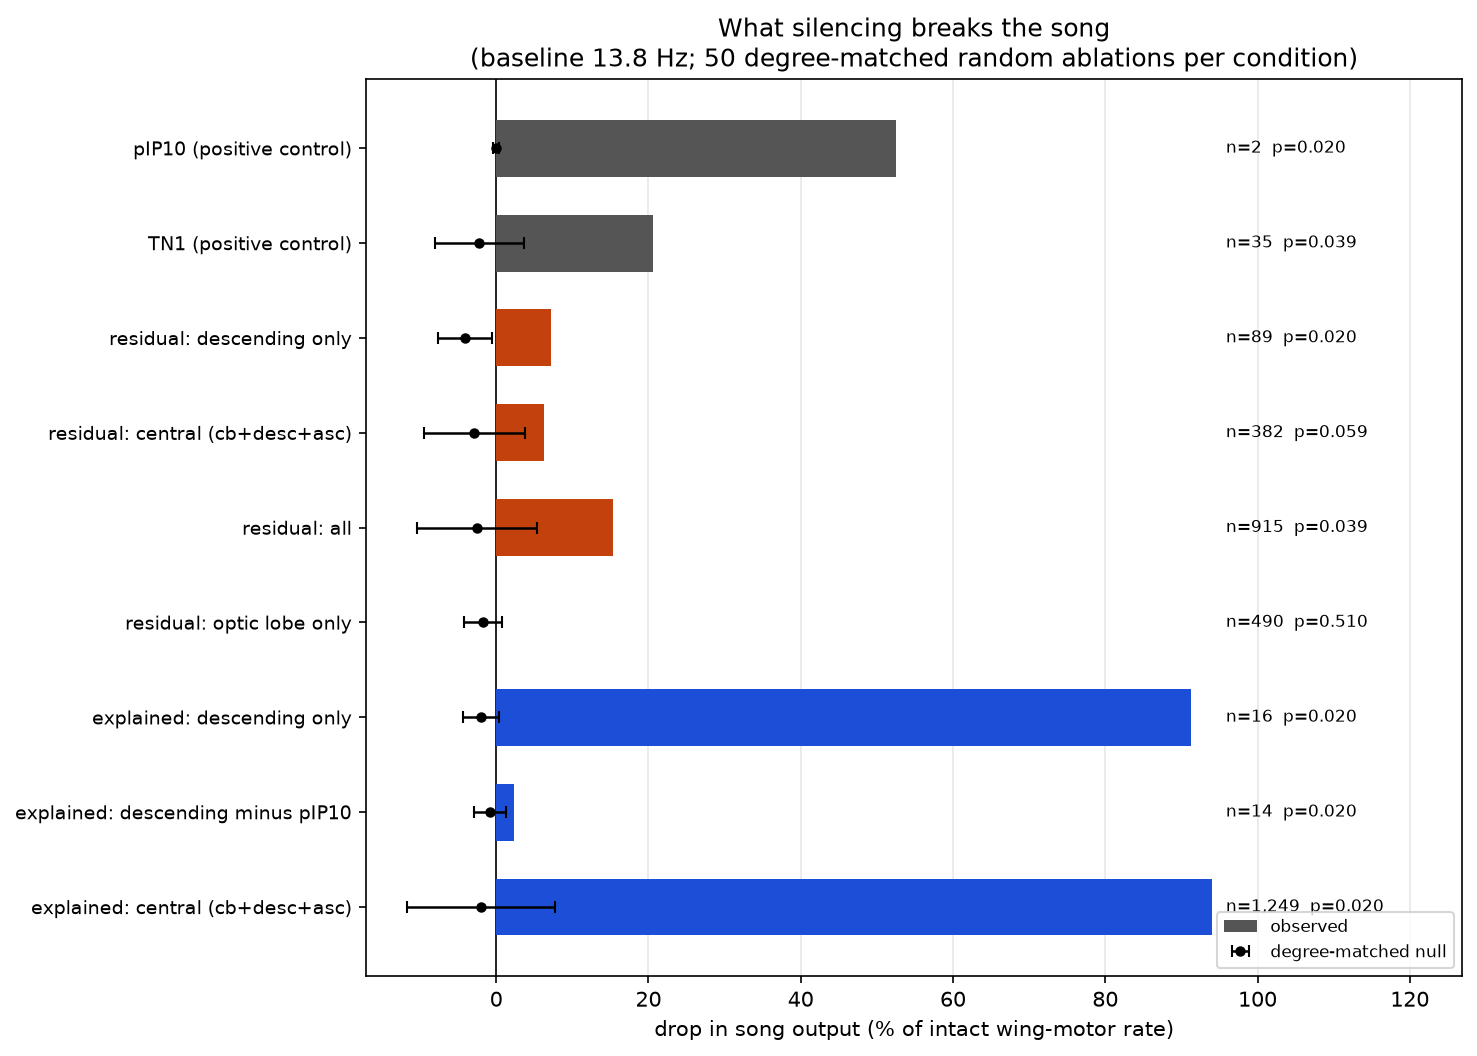
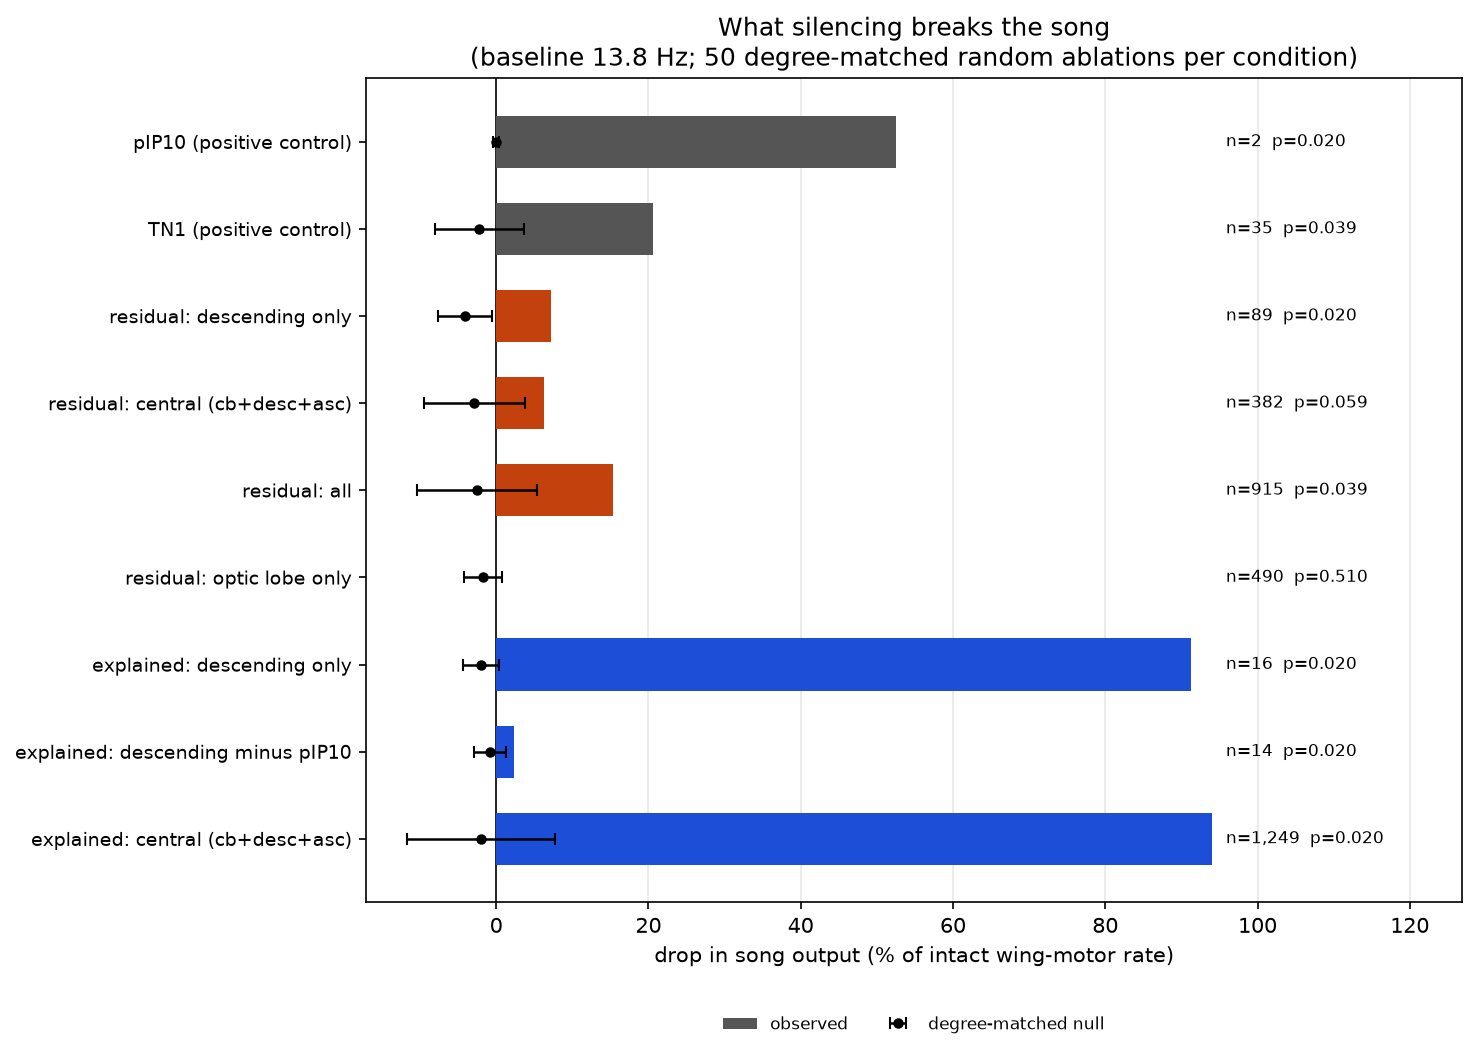
Residual breakdown, and a negative result on the motivating hypothesis
Breakdown by superclass shows the aggregate numbers were hiding a
cancellation. Only two classes move the song, and they are the two that
connect brain to nerve cord:

  ascending_neuron   84   +13.6%  (+0.162%/neuron)  p=0.0392
  descending_neuron  89    +7.2%  (+0.081%/neuron)  p=0.0392
  ol_intrinsic      490     0.0%                    p=0.3529
  cb_intrinsic      209   -23.5%                    p=1.0000

Silencing the residual cb_intrinsic neurons makes the song 23.5% LOUDER
-- they are net inhibitory, so removing them disinhibits the pathway.
That is why "residual: central" came out at only 6.2%: it bundles the
excitatory and inhibitory halves and they partly cancel. Reported as an
aggregate alone it would have read as a weak effect rather than two
opposing real ones.

The p=1.0000 there is called out in the doc as an artefact of the test's
direction -- it is one-sided for decreases, so a negative drop scores 1.0
by construction. The increase is left untested rather than claimed.

The brain-only hypothesis FAILED. Pitched as the reason MaleCNS was
needed: brain-only models delete 1,846 ascending neurons carrying VNC ->
brain feedback. Measured, pIP10 fires 6.2% faster without the nerve cord
and silencing only the ascending neurons reproduces most of it -- which
looked like a finding until the control ran:

  ascending silenced   pIP10  +10.0 Hz
  degree-matched null        -14.7 +/- 35.4 Hz
  two-sided p = 0.4118
[…]

diff --git a/scripts/run_brain_only.py b/scripts/run_brain_only.py
@@ -35,11 +35,13 @@ from fruresidual.features.fru_dsx_join import load_male_cns_annotations
 
 sys.path.insert(0, str(Path(__file__).resolve().parents[1] / "src"))
 
-from courtship.circuit import resolve_groups, to_indices  # noqa: E402
-from courtship.lif import LIFParams, group_rate, simulate  # noqa: E402
+from courtship.ablation import degree_matched_sample, out_synapses
+from courtship.circuit import resolve_groups, to_indices
+from courtship.lif import LIFParams, group_rate, simulate
 
 P = Path("C:/CourtshipData/processed")
 DURATION_MS = 200.0
+N_NULL = 50
 # Classes that live in the ventral nerve cord. Descending neurons are kept:
 # their somas are in the brain and FlyWire contains them (truncated at the
 # neck), which is exactly the boundary a brain-only reconstruction draws.
@@ -96,15 +98,40 @@ def main() -> None:
     print("\n=== brain activity, with and without the nerve cord ===")
     print(df.to_string(index=False))
 
+    # Without a null, "we removed 1,846 neurons and pIP10 changed" is not a
+    # claim about ascending FEEDBACK -- it could be any 1,846 neurons. Compare
+    # against degree-matched random sets drawn from the rest of the network.
+    print(f"\nnull: {N_NULL} degree-matched random sets of {len(ascending):,} neurons...")
+    out_syn = out_synapses(adj)
+    rng = np.random.default_rng(0)
+    null_pip10 = []
+    for _ in range(N_NULL):
+        ctrl = degree_matched_sample(ascending, out_syn, rng)
+        r = simulate(adj, gi["pC1"], duration_ms=DURATION_MS, params=params,
+                     silenced_idx=ctrl, record_every=0)
+        null_pip10.append(group_rate(r["rates_hz"], gi["pIP10"]))
+    null_pip10 = np.array(null_pip10)
+
+    obs_delta = row_asc["pIP10_hz"] - row_full["pIP10_hz"]
+    null_delta = null_pip10 - row_full["pIP10_hz"]
+    # Two-sided: the question is whether pIP10 CHANGES, not which way.
+    p_asc = (int((np.abs(null_delta) >= abs(obs_delta)).sum()) + 1) / (N_NULL + 1)
+    print(f"  ascending silenced: pIP10 {obs_delta:+.1f} Hz vs whole CNS")
+    print(f"  degree-matched null: {null_delta.mean():+.1f} +/- {null_delta.std():.1f} Hz")
+    print(f"  two-sided empirical p = {p_asc:.4f}")
+
     d_full = row_full["pIP10_hz"]
     d_brain = row_brain["pIP10_hz"]
-    print(f"\npIP10 (the song command's output channel):")
+    print("\npIP10 (the song command's output channel):")
     print(f"  whole CNS   {d_full:.1f} Hz")
     print(f"  brain only  {d_brain:.1f} Hz   "
           f"({100*(d_brain-d_full)/d_full:+.1f}% vs whole CNS)" if d_full else "")
 
-    out = {"duration_ms": DURATION_MS, "synapse_mv": params.synapse_mv,
-           "n_vnc_silenced": int(len(vnc_idx)), "n_ascending": int(len(ascending)),
+    out = {"ascending_null_pIP10_hz": null_pip10.tolist(),
+           "ascending_obs_delta_hz": float(obs_delta),
+           "ascending_p_two_sided": float(p_asc),
+           "duration_ms": DURATION_MS, "synapse_mv": params.synapse_mv,
+           "n_vnc_silenced": len(vnc_idx), "n_ascending": len(ascending),
            "conditions": rows,
            "pIP10_trace_whole_cns": r_full["group_traces_hz"]["pIP10"].tolist(),
            "pIP10_trace_brain_only": r_brain["group_traces_hz"]["pIP10"].tolist(),

diff --git a/scripts/run_residual_breakdown.py b/scripts/run_residual_breakdown.py
@@ -27,9 +27,13 @@ from fruresidual.features.fru_dsx_join import load_male_cns_annotations
 
 sys.path.insert(0, str(Path(__file__).resolve().parents[1] / "src"))
 
-from courtship.ablation import degree_matched_sample, empirical_p, out_synapses  # noqa: E402
-from courtship.circuit import resolve_groups, to_indices  # noqa: E402
-from courtship.lif import LIFParams, group_rate, simulate  # noqa: E402
+from courtship.ablation import (
+    degree_matched_sample,
+    empirical_p,
+    out_synapses,
+)
+from courtship.circuit import resolve_groups, to_indices
+from courtship.lif import LIFParams, group_rate, simulate
 
 P = Path("C:/CourtshipData/processed")
 DURATION_MS = 200.0
@@ -71,7 +75,7 @@ def main() -> None:
         nulls = np.array([baseline - wing_rate(degree_matched_sample(target, out_syn, rng))
                           for _ in range(args.n_null)])
         p = empirical_p(drop, nulls)
-        rows.append({"superclass": sc, "n": int(len(target)),
+        rows.append({"superclass": sc, "n": len(target),
                      "wing_hz": obs, "pct_drop": 100 * drop / baseline,
                      "pct_drop_per_neuron": 100 * drop / baseline / len(target),
                      "null_pct_drop_mean": 100 * float(nulls.mean()) / baseline,

diff --git a/src/courtship/lif.py b/src/courtship/lif.py
@@ -22,11 +22,11 @@ from __future__ import annotations
 import os
 from dataclasses import dataclass
 
-os.environ.setdefault("KMP_DUPLICATE_LIB_OK", "TRUE")  # noqa: E402
+os.environ.setdefault("KMP_DUPLICATE_LIB_OK", "TRUE")
 
-import numpy as np  # noqa: E402
-import scipy.sparse as sp  # noqa: E402
-import torch  # noqa: E402
+import numpy as np
+import scipy.sparse as sp
+import torch
 
 
 @dataclass(frozen=True)
@@ -96,7 +96,7 @@ def simulate(
     p = params or LIFParams()
     device = device or ("cuda" if torch.cuda.is_available() else "cpu")
     n = adj.shape[0]
-    steps = int(round(duration_ms / p.dt))
+    steps = round(duration_ms / p.dt)
 
     w_t = to_torch_transposed(adj, device)
     v = torch.full((n,), p.v_rest, dtype=torch.float32, device=device)
@@ -123,7 +123,7 @@ def simulate(
     # Per-group spike counts in time bins, so the cascade can be watched
     # propagating rather than only summarised at the end.
     tracks: dict[str, list[float]] = {}
-    bin_steps = max(1, int(round(bin_ms / p.dt)))
+    bin_steps = max(1, round(bin_ms / p.dt))
     if track_groups:
         g_idx = {k: torch.from_numpy(np.asarray(v, dtype=np.int64)).to(device)
                  for k, v in track_groups.items() if len(v)}

diff --git a/scripts/run_ablation.py b/scripts/run_ablation.py
@@ -31,9 +31,13 @@ from fruresidual.features.fru_dsx_join import load_male_cns_annotations
 
 sys.path.insert(0, str(Path(__file__).resolve().parents[1] / "src"))
 
-from courtship.ablation import degree_matched_sample, empirical_p, out_synapses  # noqa: E402
-from courtship.circuit import resolve_groups, to_indices  # noqa: E402
-from courtship.lif import LIFParams, group_rate, simulate  # noqa: E402
+from courtship.ablation import (
+    degree_matched_sample,
+    empirical_p,
+    out_synapses,
+)
+from courtship.circuit import resolve_groups, to_indices
+from courtship.lif import LIFParams, group_rate, simulate
 
 P = Path("C:/CourtshipData/processed")
 DURATION_MS = 200.0
@@ -128,7 +132,7 @@ def main() -> None:
         p = empirical_p(drop, nulls)
 
         results.append({
-            "condition": label, "n_silenced": int(len(target)),
+            "condition": label, "n_silenced": len(target),
             "wing_hz": obs, "drop_hz": drop, "pct_drop": pct,
             "null_drop_mean": float(nulls.mean()), "null_drop_std": float(nulls.std()),
             "p_empirical": p, "n_null": args.n_null,

diff --git a/scripts/make_figures.py b/scripts/make_figures.py
@@ -14,14 +14,14 @@ import numpy as np
 import scipy.sparse as sp
 
 matplotlib.use("Agg")
-import matplotlib.pyplot as plt  # noqa: E402
-from fruresidual.config import load_config  # noqa: E402
-from fruresidual.features.fru_dsx_join import load_male_cns_annotations  # noqa: E402
+import matplotlib.pyplot as plt
+from fruresidual.config import load_config
+from fruresidual.features.fru_dsx_join import load_male_cns_annotations
 
 sys.path.insert(0, str(Path(__file__).resolve().parents[1] / "src"))
 
-from courtship.circuit import resolve_groups, to_indices  # noqa: E402
-from courtship.lif import LIFParams, simulate  # noqa: E402
+from courtship.circuit import resolve_groups, to_indices
+from courtship.lif import LIFParams, simulate
 
 P = Path("C:/CourtshipData/processed")
 FIG = Path(__file__).resolve().parents[1] / "reports" / "figures"

diff --git a/scripts/calibrate_gain.py b/scripts/calibrate_gain.py
@@ -26,8 +26,8 @@ from fruresidual.features.fru_dsx_join import load_male_cns_annotations
 
 sys.path.insert(0, str(Path(__file__).resolve().parents[1] / "src"))
 
-from courtship.circuit import resolve_groups, to_indices  # noqa: E402
-from courtship.lif import LIFParams, group_rate, simulate  # noqa: E402
+from courtship.circuit import resolve_groups, to_indices
+from courtship.lif import LIFParams, group_rate, simulate
 
 P = Path("C:/CourtshipData/processed")
 GAINS = (0.005, 0.01, 0.02, 0.03, 0.05, 0.275)

diff --git a/docs/results.md b/docs/results.md
@@ -64,6 +64,88 @@ The headline comparison:
 Neurons the genetic switch cannot account for are doing non-trivial work
 in the circuit the genetic switch is supposed to build.
 
+## The residual pulls in both directions
+
+Breaking the residual down by superclass (same protocol, one ablation per
+class) shows the aggregate numbers above were hiding a cancellation:
+
+| superclass | n | song drop | per neuron | null | p |
+|---|---|---|---|---|---|
+| `ascending_neuron` | 84 | **+13.6%** | **+0.162%** | −3.8% | **0.0392** |
+| `descending_neuron` | 89 | **+7.2%** | +0.081% | −2.6% | **0.0392** |
+| `cb_motor` | 2 | 0.0% | 0.0% | 0.0% | 1.0000 |
+| `ol_intrinsic` | 490 | 0.0% | 0.0% | −2.5% | 0.3529 |
+| `visual_centrifugal` | 2 | 0.0% | 0.0% | −0.9% | 0.8627 |
+| `sensory_descending` | 6 | 0.0% | 0.0% | −0.1% | 0.9412 |
+| `vnc_intrinsic` | 33 | −4.5% | −0.136% | −2.8% | 0.6863 |
+| `cb_intrinsic` | 209 | **−23.5%** | −0.113% | −4.0% | 1.0000 |
+
+**Only two classes are significant, and they are the same two:**
+`ascending_neuron` and `descending_neuron` — the classes that connect
+brain to nerve cord. Nothing else in the residual moves the song.
+
+Silencing the 209 residual `cb_intrinsic` neurons makes the song **23.5%
+louder**: they are net inhibitory onto the pathway, so removing them
+disinhibits it.
+
+> **Caveat on that p=1.0000.** The empirical test is one-sided for
+> *decreases* — it counts how often a matched null drops the song at
+> least as much. A negative drop therefore scores p=1.0 **by
+> construction**, not because the increase was tested and found wanting.
+> The magnitude (−23.5% against a −4.0% null) suggests a real
+> disinhibition, but assessing it properly needs the opposite tail. It is
+> left untested rather than quietly claimed.
+
+This explains the earlier puzzle: "residual: central" bundles
+`cb_intrinsic` + `descending` + `ascending` together and came out at only
+6.2%, which reads as a weak effect. It is not weak — it is an excitatory
+contribution and an inhibitory one partially cancelling. Reported as an
+aggregate alone, that would have been misleading.
+
+The largest effect, both in total (13.6%) and per neuron (0.162%, twice
+the descending rate), is `ascending_neuron` — the class carrying nerve-cord
+→ brain feedback. **Those neurons do not exist in a brain-only
+connectome.** The single most influential part of the residual is in the
+half of the nervous system every published connectome simulation leaves
+out.
+
+## Does amputating the nerve cord change the brain? No — negative result
+
+The hypothesis was that brain-only connectome models (every published
+one) are missing something real, because they delete the 1,846 ascending
+neurons carrying nerve-cord → brain feedback. MaleCNS can test it
+directly: run the same stimulus on the full network and on a brain-only
+version of itself.
+
+| condition | pIP10 | dPR1 | TN1 | wing | brain mean |
+|---|---|---|---|---|---|
+| whole CNS | 200.0 | 200.0 | 47.3 | 13.8 | 0.467 |
+| brain only (22,186 silenced) | 212.5 | 0.0 | 0.0 | 0.0 | 0.473 |
+| ascending only (1,846 silenced) | 210.0 | 222.5 | 35.7 | 11.6 | 0.469 |
+
+At face value this looked like a finding: pIP10, the brain's own command
+output, fires **6.2% faster** without the nerve cord, and silencing just
+the ascending neurons reproduces most of it. **It does not survive its
+control.**
+
+```
+ascending silenced:   pIP10  +10.0 Hz vs whole CNS
+degree-matched null:        -14.7 +/- 35.4 Hz
+two-sided empirical p = 0.4118
+```
+
+Silencing *any* degree-matched set of 1,846 neurons swings pIP10 by tens
+of Hz. A +10 Hz shift is deep inside that noise. **For this readout, the
+brain-only abstraction is defensible** — removing the nerve cord destroys
+the output (dPR1, TN1 and wing motor all go to zero, which is trivially
+true since those cells are gone) but does not measurably change the
+brain's own command dynamics.
+
+This is reported because it was the motivating hypothesis for using
+MaleCNS at all, and it failed. The case for MaleCNS now rests on the
+ablation result above — where the two significant residual classes are
+`ascending_neuron` and `descending_neuron` — not on this.
+
 ## What this does not show
 
 - **Not per-neuron dominance.** 7.2% over 89 neurons is 0.08% each;

diff --git a/README.md b/README.md
@@ -42,8 +42,23 @@ responds to size-matched control populations. Turning the gain up gives a
 louder signal and a worse experiment: at 0.275 the readout can no longer
 tell courtship from noise at all.
 
+## Headline
+
+Silencing **two neurons** (pIP10) halves the song. Silencing **490
+optic-lobe residual neurons changes it by exactly nothing** — the method
+is not "remove neurons, output falls".
+
+The 89 *fru*/*dsx*-**unexplained** descending neurons drop the song
+**7.2%**; the 14 **explained** ones, with the pIP10 bottleneck set aside,
+drop it **2.3%**. Neurons the genetic switch cannot account for are doing
+real work in the circuit the switch is supposed to build.
+
+The motivating hypothesis for using a whole-CNS connectome — that
+brain-only models miss nerve-cord feedback — **failed its own control**
+(p=0.41) and is reported as a negative result.
+
 Full detail, including what this model cannot support, is in
-[docs/methods.md](docs/methods.md).
+[docs/methods.md](docs/methods.md) and [docs/results.md](docs/results.md).
 
 ## Status
 
@@ -52,8 +67,9 @@ Full detail, including what this model cannot support, is in
 | connectome built + verified | done |
 | circuit located + validated | done |
 | simulator calibrated | done |
-| ablation experiment | running |
-| brain-only vs whole-CNS | written, not yet run |
+| ablation experiment | done — see [docs/results.md](docs/results.md) |
+| residual breakdown by class | done |
+| brain-only vs whole-CNS | done — **negative**, hypothesis failed its control |
 | female (FlyWire) comparison | **blocked** — Zenodo 504 |
 
 ## Relationship to FruResidual
